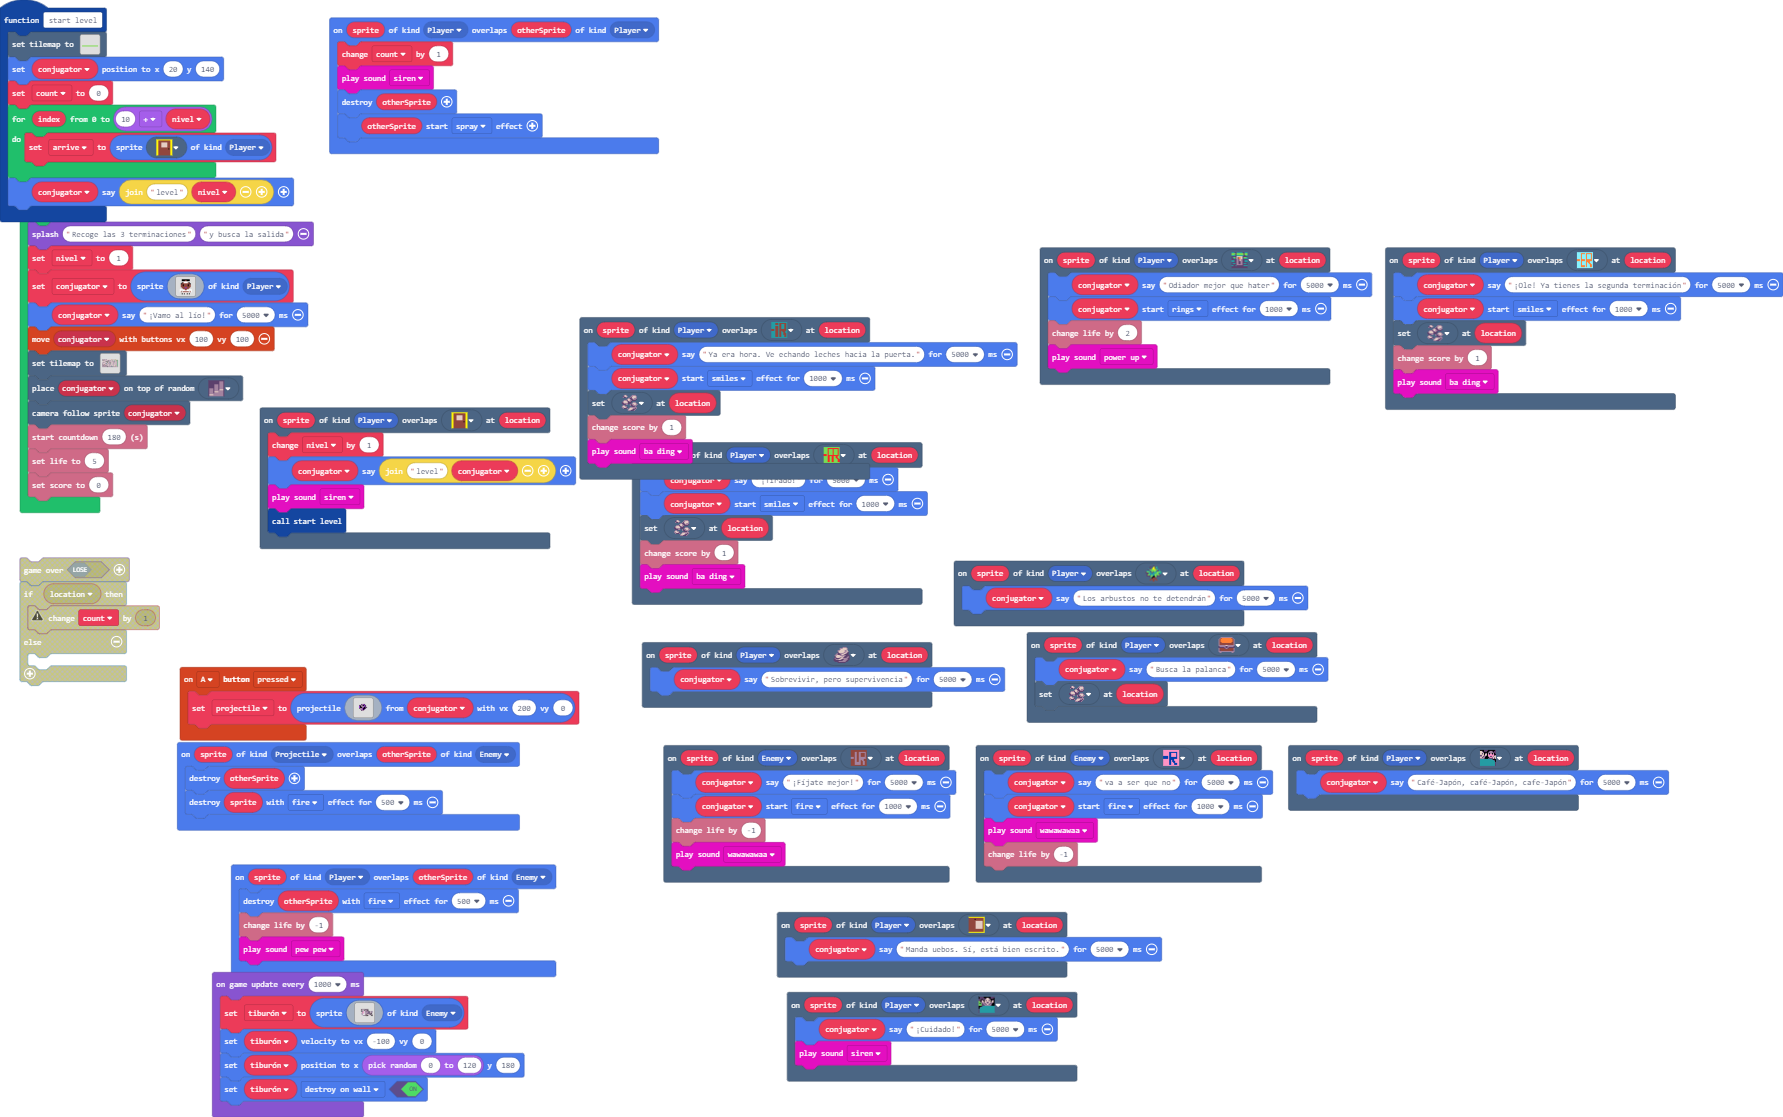
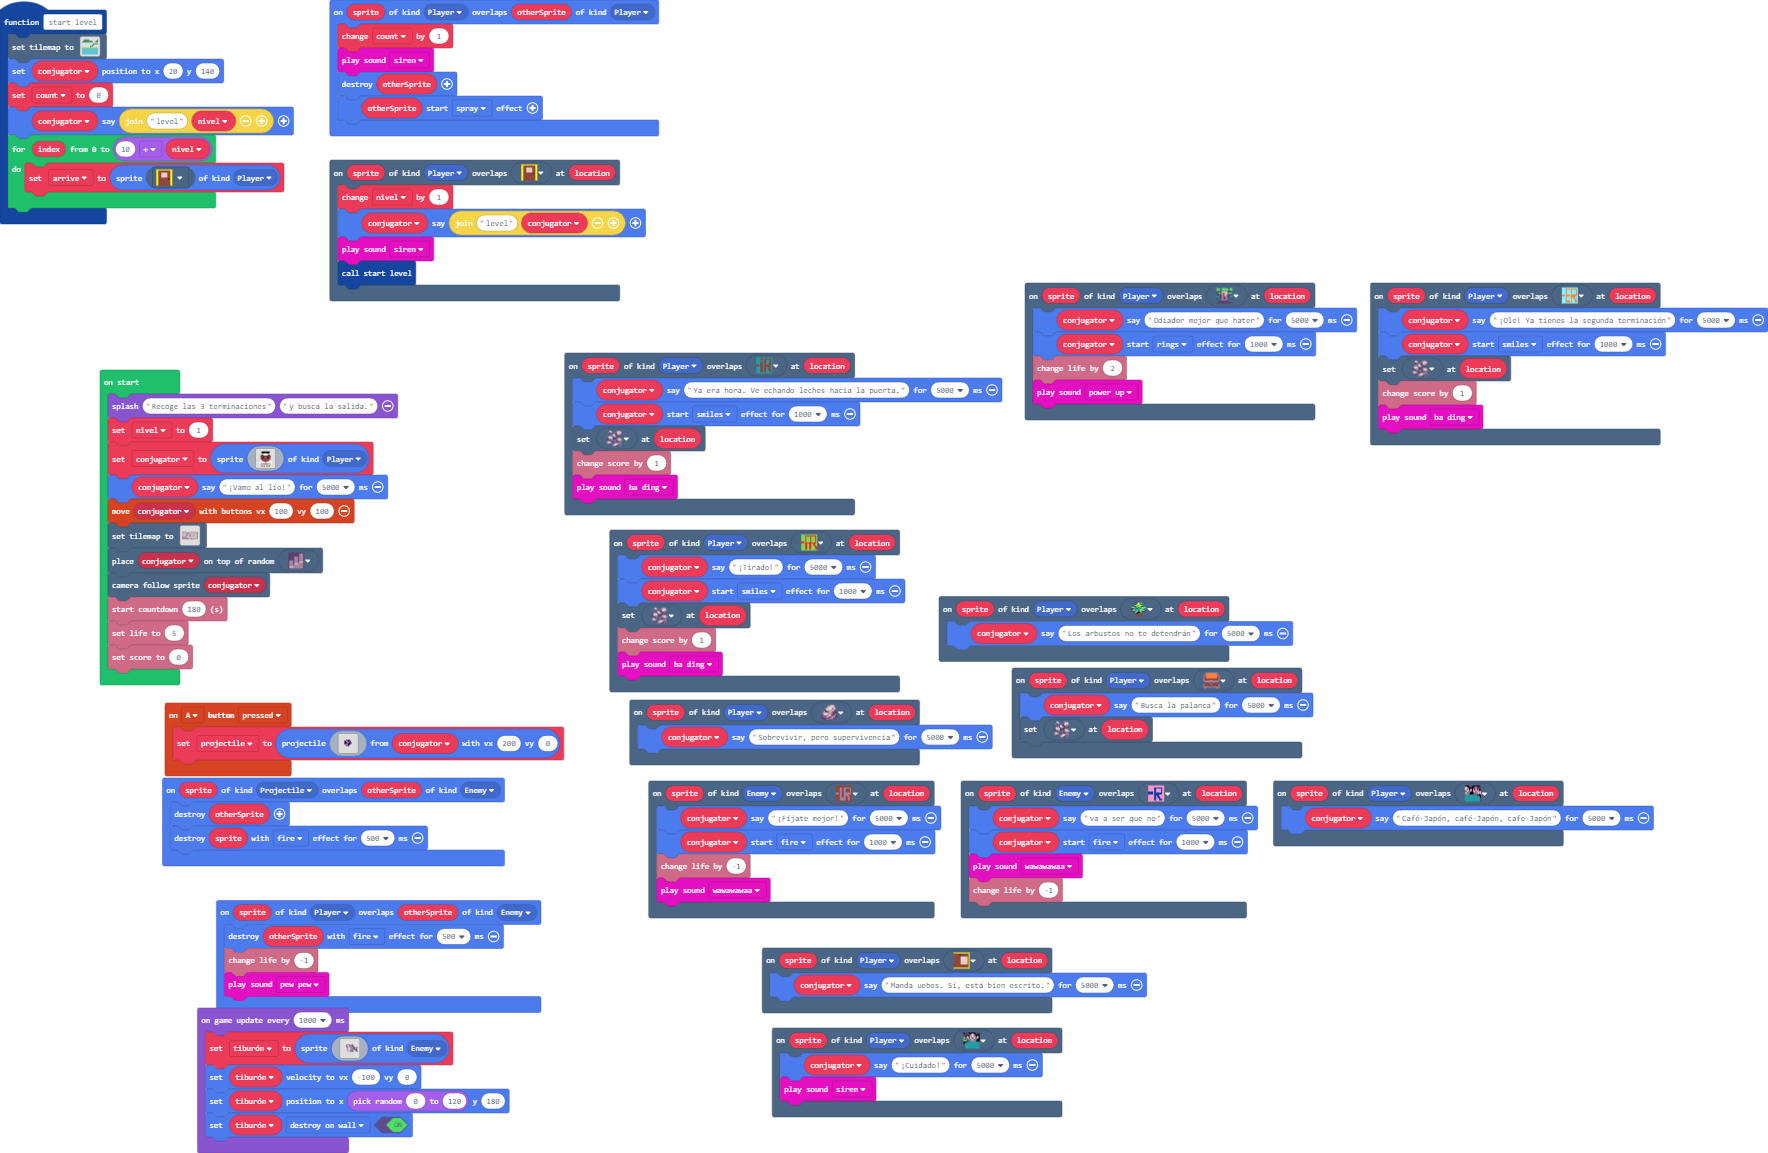
Update main.blocks, main.ts

diff --git a/main.ts b/main.ts
@@ -171,22 +171,19 @@ e e e e b b b b b b e e b b e e
 e e e e e e e e e e e e e e e e 
 `
 }
-scene.onOverlapTile(SpriteKind.Player, myTiles.tile1, function (sprite, location) {
-    conjugator.say("Manda uebos. Sí, está bien escrito.", 5000)
-})
 function start_level () {
     tiles.setTilemap(tiles.createTilemap(
-            hex`1000100000000000000000000000000000000000000000000000000000000000000000000000000000000000000000000000000000000000000000000000000000000000000000000000000000000000000000000000000000000000000000000000000000000000000000000000000000000000000000000000000000000000000000000000000000000000000000000000000009090909090909090909090909090909000000000000000000000000000000000000000000000000000000000000000000000000000000000000000000000000000000000000000000000000000000000000000000000000000000000000000000000000000000000000000000000000`,
[1 lines of base64/hex data omitted]
             img`
 . . . . . . . . . . . . . . . . 
+. . 2 2 2 2 2 . . . . . . . . 2 
+. 2 2 2 2 2 2 2 2 2 . . . . 2 2 
+2 2 2 2 2 2 2 2 2 2 2 . . 2 2 2 
 . . . . . . . . . . . . . . . . 
-. . . . . . . . . . . . . . . . 
-. . . . . . . . . . . . . . . . 
-. . . . . . . . . . . . . . . . 
-. . . . . . . . . . . . . . . . 
-. . . . . . . . . . . . . . . . 
-. . . . . . . . . . . . . . . . 
-. . . . . . . . . . . . . . . . 
+. . . . . . . . . . . 2 2 2 2 2 
+. . . . . . . . . . 2 2 . . . . 
+. . . . . . . . 2 2 2 . . . . . 
+. . . . . . . . 2 . . . . . . . 
 2 2 2 2 2 2 2 2 2 2 2 2 2 2 2 2 
 . . . . . . . . . . . . . . . . 
 . . . . . . . . . . . . . . . . 
@@ -195,16 +192,19 @@ function start_level () {
 . . . . . . . . . . . . . . . . 
 . . . . . . . . . . . . . . . . 
 `,
-            [myTiles.tile0,myTiles.tile1,myTiles.tile2,myTiles.tile3,myTiles.tile4,myTiles.tile5,myTiles.tile6,myTiles.tile7,myTiles.tile8,sprites.castle.tileGrass1],
+            [myTiles.tile0,myTiles.tile1,myTiles.tile2,myTiles.tile3,myTiles.tile4,myTiles.tile5,myTiles.tile6,myTiles.tile7,myTiles.tile8,sprites.castle.tileGrass1,sprites.builtin.oceanSand8,sprites.builtin.forestTiles0,sprites.dungeon.hazardWater],
             TileScale.Sixteen
         ))
     conjugator.setPosition(20, 140)
     count = 0
+    conjugator.say("level" + nivel)
     for (let index = 0; index <= 10 + nivel; index++) {
         arrive = sprites.create(myTiles.tile2, SpriteKind.Player)
     }
-    conjugator.say("level" + nivel)
 }
+scene.onOverlapTile(SpriteKind.Player, myTiles.tile1, function (sprite, location) {
+    conjugator.say("Manda uebos. Sí, está bien escrito.", 5000)
+})
 scene.onOverlapTile(SpriteKind.Player, sprites.dungeon.greenSwitchUp, function (sprite, location) {
     conjugator.say("Odiador mejor que hater", 5000)
     conjugator.startEffect(effects.rings, 1000)
@@ -308,7 +308,7 @@ let arrive: Sprite = null
 let count = 0
 let conjugator: Sprite = null
 let nivel = 0
-game.splash("Recoge las 3 terminaciones", "y busca la salida")
+game.splash("Recoge las 3 terminaciones", "y busca la salida.")
 nivel = 1
 conjugator = sprites.create(img`
 . . . . . . . . . . . . 
